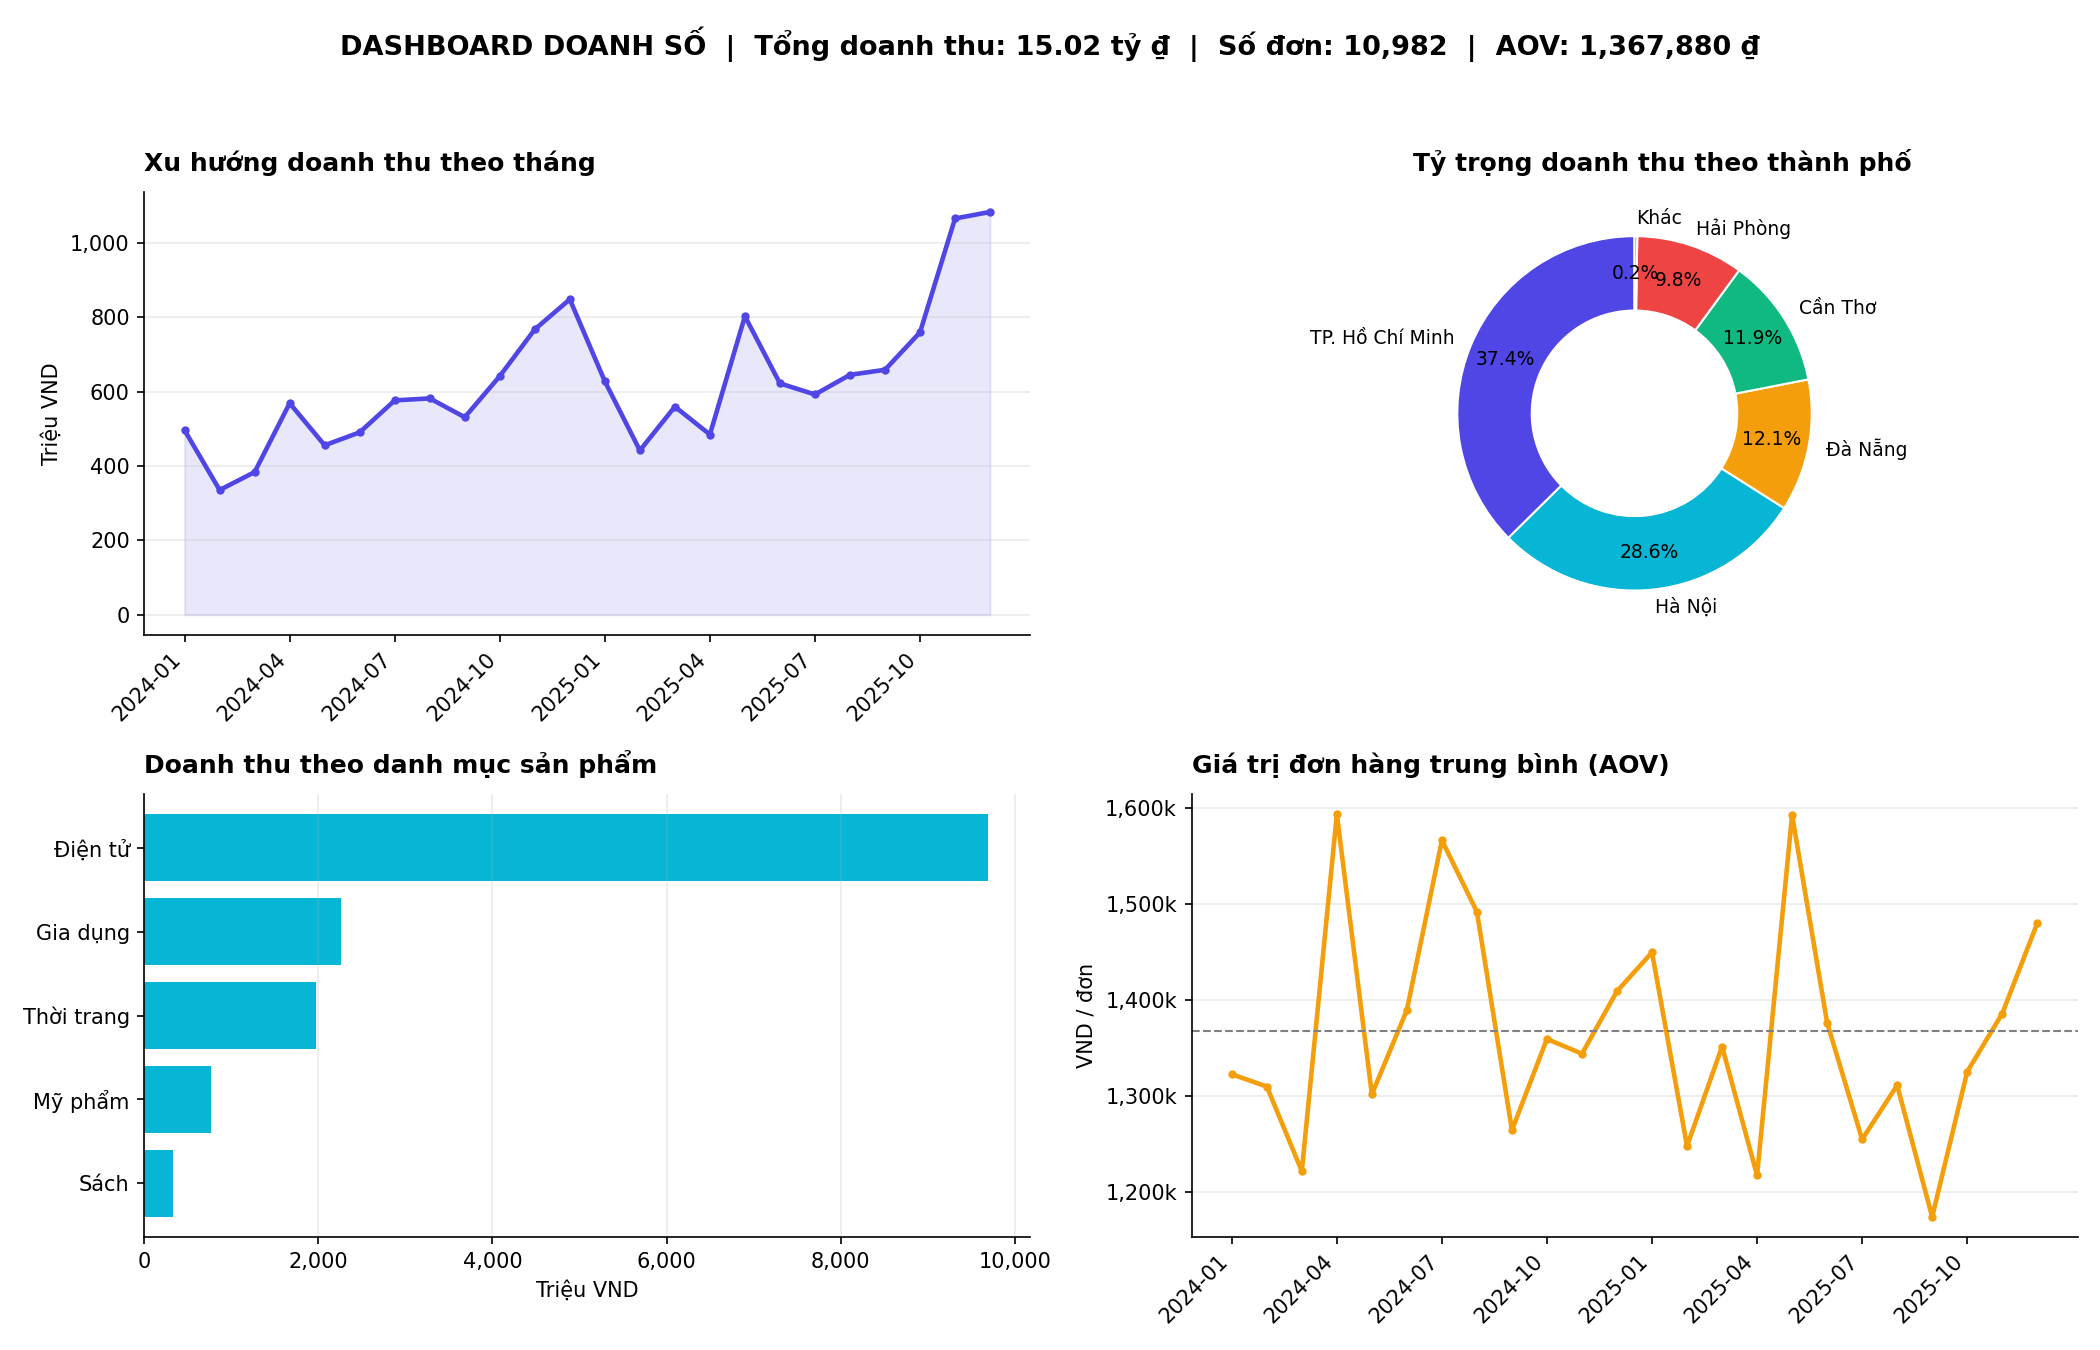
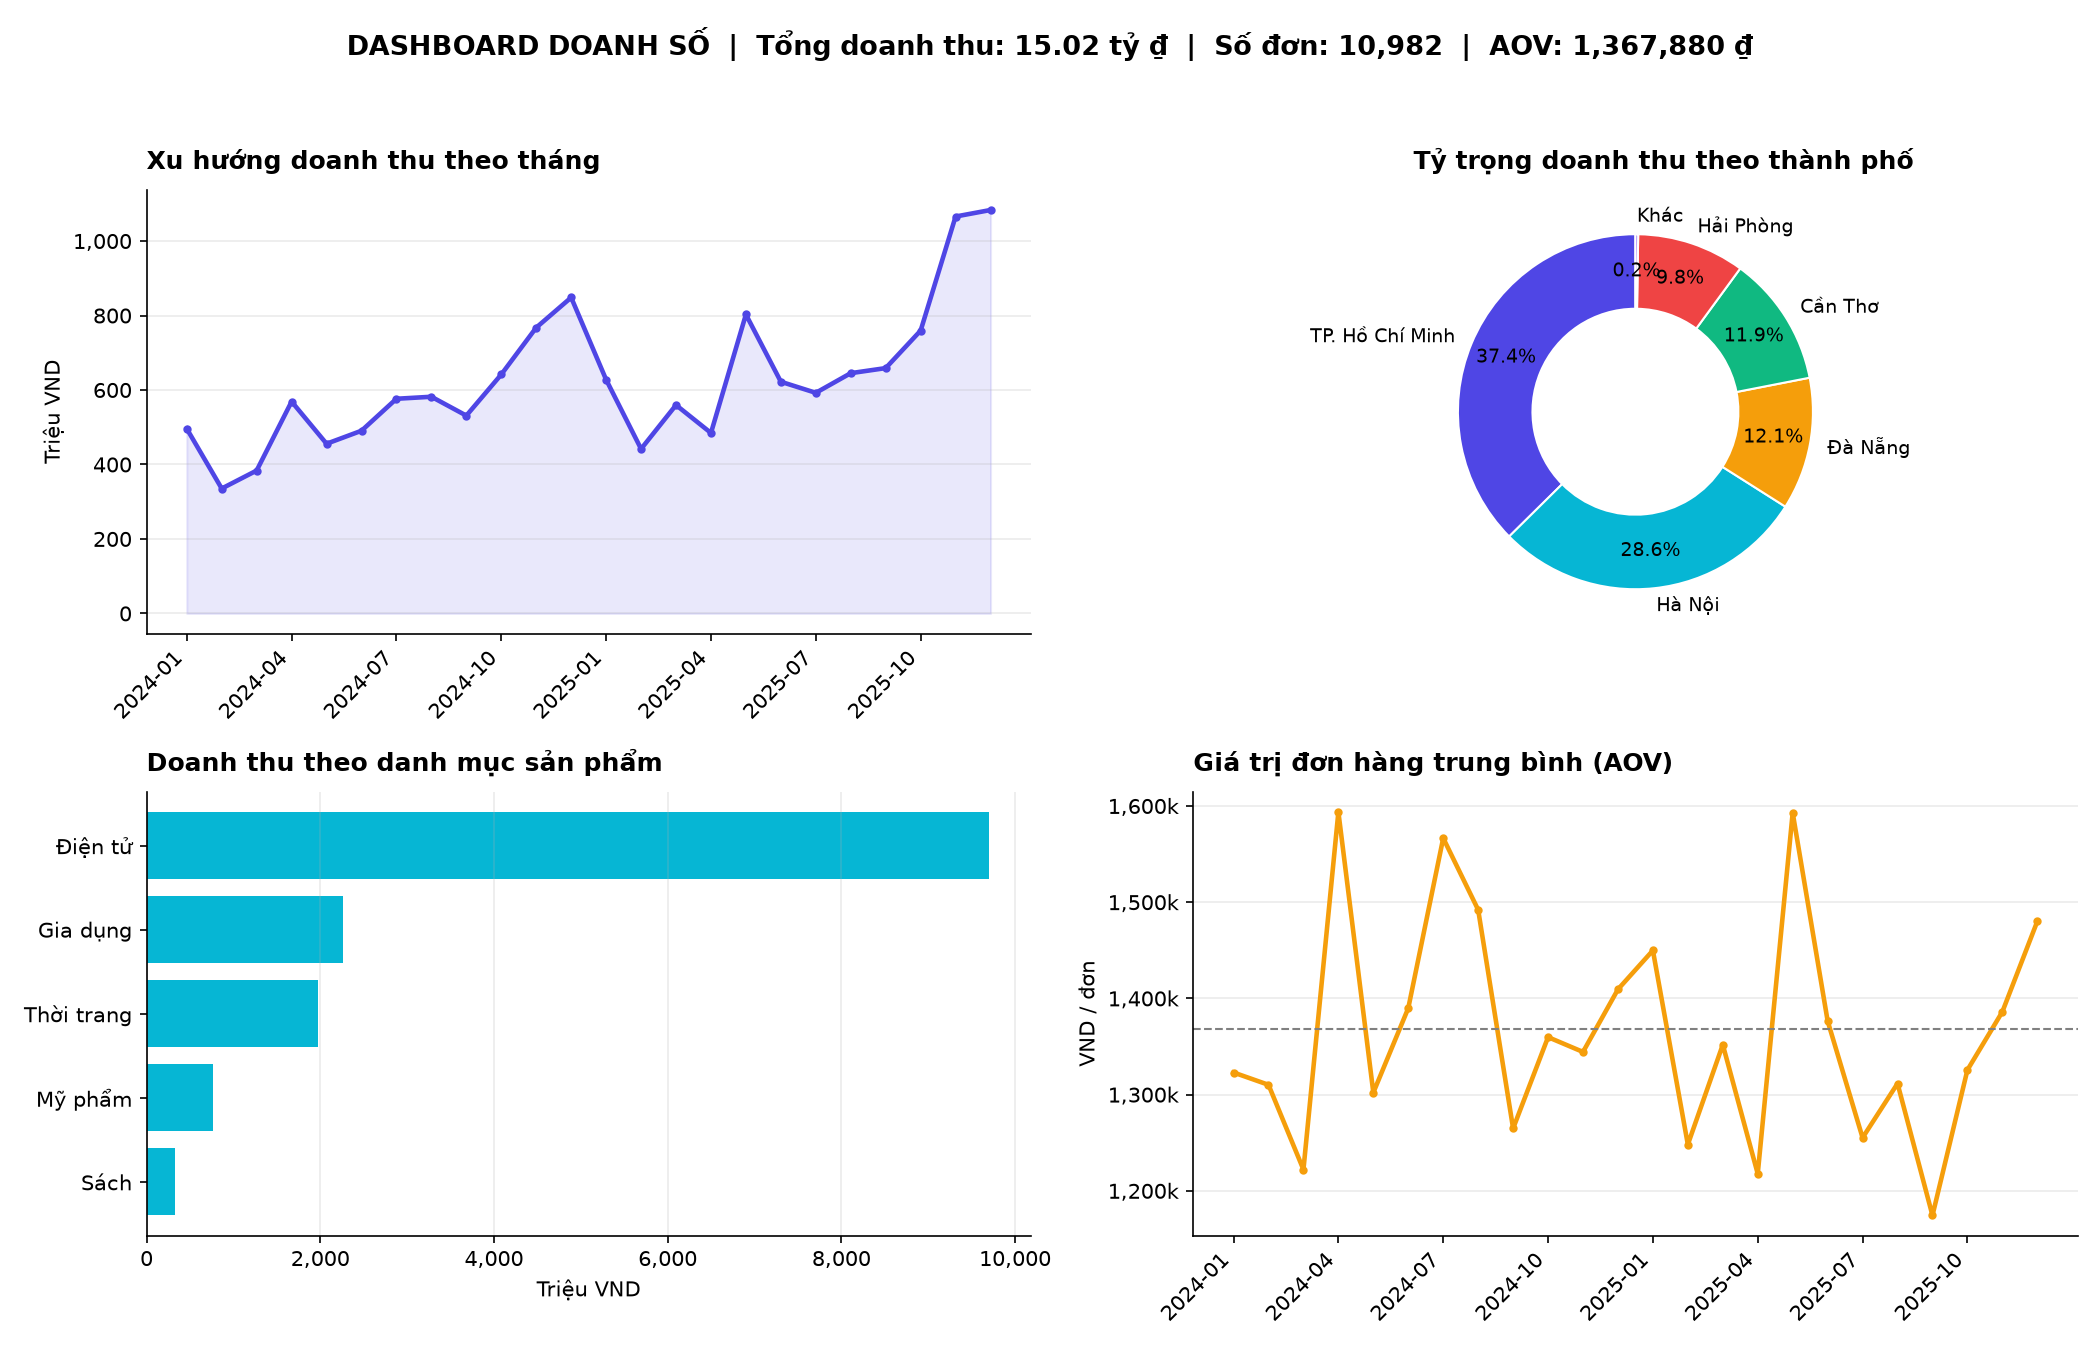
chore: regenerate dashboard and report

diff --git a/output/report.html b/output/report.html
@@ -18,7 +18,7 @@ svg{width:100%;height:auto;display:block}
 </style></head>
 <body><div class="wrap">
 <h1>Báo cáo doanh số thương mại điện tử</h1>
-<p class="sub">Tự động sinh bởi Python · 16/10/2026 05:15 · Đồ họa vector SVG</p>
+<p class="sub">Tự động sinh bởi Python · 18/10/2026 11:19 · Đồ họa vector SVG</p>
 <div class="kpis"><div class="kpi"><span>Tổng doanh thu</span><b>15.02 tỷ ₫</b></div><div class="kpi"><span>Số đơn hoàn tất</span><b>10,982</b></div><div class="kpi"><span>Giá trị đơn trung bình</span><b>1.4 triệu ₫</b></div><div class="kpi"><span>Số khách hàng</span><b>3,748</b></div></div>
 <div class="grid2"><div class="card"><h2>Xu hướng doanh thu theo tháng (triệu ₫)</h2><svg viewBox="0 0 560 300" xmlns="http://www.w3.org/2000/svg" role="img"><line x1="58" x2="544" y1="254.0" y2="254.0" class="grid"/><text x="50" y="258.0" class="tick" text-anchor="end">0tr</text><line x1="58" x2="544" y1="194.5" y2="194.5" class="grid"/><text x="50" y="198.5" class="tick" text-anchor="end">298tr</text><line x1="58" x2="544" y1="135.0" y2="135.0" class="grid"/><text x="50" y="139.0" class="tick" text-anchor="end">596tr</text><line x1="58" x2="544" y1="75.5" y2="75.5" class="grid"/><text x="50" y="79.5" class="tick" text-anchor="end">894tr</text><line x1="58" x2="544" y1="16.0" y2="16.0" class="grid"/><text x="50" y="20.0" class="tick" text-anchor="end">1,192tr</text><polygon points="58,254.0 58.0,154.9 79.1,187.0 100.3,177.4 121.4,140.4 142.5,163.0 163.7,156.0 184.8,138.9 205.9,137.8 227.0,147.9 248.2,125.8 269.3,100.7 290.4,84.6 311.6,128.6 332.7,165.8 353.8,142.2 375.0,157.2 396.1,93.7 417.2,129.7 438.3,135.7 459.5,125.1 480.6,122.4 501.7,102.3 522.9,41.1 544.0,37.6 544.0,254.0" fill="#4F46E5" opacity="0.12"/><polyline points="58.0,154.9 79.1,187.0 100.3,177.4 121.4,140.4 142.5,163.0 163.7,156.0 184.8,138.9 205.9,137.8 227.0,147.9 248.2,125.8 269.3,100.7 290.4,84.6 311.6,128.6 332.7,165.8 353.8,142.2 375.0,157.2 396.1,93.7 417.2,129.7 438.3,135.7 459.5,125.1 480.6,122.4 501.7,102.3 522.9,41.1 544.0,37.6" fill="none" stroke="#4F46E5" stroke-width="2.5" stroke-linejoin="round"/><text x="58.0" y="272" class="tick" text-anchor="middle">2024-01</text><text x="121.4" y="272" class="tick" text-anchor="middle">2024-04</text><text x="184.8" y="272" class="tick" text-anchor="middle">2024-07</text><text x="248.2" y="272" class="tick" text-anchor="middle">2024-10</text><text x="311.6" y="272" class="tick" text-anchor="middle">2025-01</text><text x="375.0" y="272" class="tick" text-anchor="middle">2025-04</text><text x="438.3" y="272" class="tick" text-anchor="middle">2025-07</text><text x="501.7" y="272" class="tick" text-anchor="middle">2025-10</text></svg></div><div class="card"><h2>Tỷ trọng doanh thu theo thành phố</h2><svg viewBox="0 0 560 300" xmlns="http://www.w3.org/2000/svg" role="img"><path d="M150.00,40.00 A110,110 0 0 1 228.24,227.32 L196.94,196.39 A66,66 0 0 0 150.00,84.00 Z" fill="#4F46E5" stroke="var(--card)" stroke-width="2"/><rect x="320" y="59" width="14" height="14" rx="3" fill="#4F46E5"/><text x="342" y="70" class="label">TP. Hồ Chí Minh</text><text x="548" y="70" class="label" text-anchor="end" font-weight="600">37.4%</text><path d="M228.24,227.32 A110,110 0 0 1 57.07,208.85 L94.24,185.31 A66,66 0 0 0 196.94,196.39 Z" fill="#06B6D4" stroke="var(--card)" stroke-width="2"/><rect x="320" y="91" width="14" height="14" rx="3" fill="#06B6D4"/><text x="342" y="102" class="label">Hà Nội</text><text x="548" y="102" class="label" text-anchor="end" font-weight="600">28.6%</text><path d="M57.07,208.85 A110,110 0 0 1 42.04,128.92 L85.22,137.35 A66,66 0 0 0 94.24,185.31 Z" fill="#F59E0B" stroke="var(--card)" stroke-width="2"/><rect x="320" y="123" width="14" height="14" rx="3" fill="#F59E0B"/><text x="342" y="134" class="label">Đà Nẵng</text><text x="548" y="134" class="label" text-anchor="end" font-weight="600">12.1%</text><path d="M42.04,128.92 A110,110 0 0 1 85.05,61.22 L111.03,96.73 A66,66 0 0 0 85.22,137.35 Z" fill="#10B981" stroke="var(--card)" stroke-width="2"/><rect x="320" y="155" width="14" height="14" rx="3" fill="#10B981"/><text x="342" y="166" class="label">Cần Thơ</text><text x="548" y="166" class="label" text-anchor="end" font-weight="600">11.9%</text><path d="M85.05,61.22 A110,110 0 0 1 148.28,40.01 L148.97,84.01 A66,66 0 0 0 111.03,96.73 Z" fill="#EF4444" stroke="var(--card)" stroke-width="2"/><rect x="320" y="187" width="14" height="14" rx="3" fill="#EF4444"/><text x="342" y="198" class="label">Hải Phòng</text><text x="548" y="198" class="label" text-anchor="end" font-weight="600">9.8%</text><path d="M148.28,40.01 A110,110 0 0 1 150.00,40.00 L150.00,84.00 A66,66 0 0 0 148.97,84.01 Z" fill="#8B5CF6" stroke="var(--card)" stroke-width="2"/><rect x="320" y="219" width="14" height="14" rx="3" fill="#8B5CF6"/><text x="342" y="230" class="label">Khác</text><text x="548" y="230" class="label" text-anchor="end" font-weight="600">0.2%</text><text x="150" y="155" class="label" text-anchor="middle" font-weight="600">Theo thành phố</text></svg></div><div class="card"><h2>Doanh thu theo danh mục sản phẩm</h2><svg viewBox="0 0 560 300" xmlns="http://www.w3.org/2000/svg" role="img"><text x="90" y="43.6" class="label" text-anchor="end">Điện tử</text><rect x="100" y="21.9" width="370.0" height="35.3" rx="4" fill="#06B6D4"/><text x="478.0" y="43.6" class="tick">9.69 tỷ ₫</text><text x="90" y="98.8" class="label" text-anchor="end">Gia dụng</text><rect x="100" y="77.1" width="86.2" height="35.3" rx="4" fill="#06B6D4"/><text x="194.2" y="98.8" class="tick">2.26 tỷ ₫</text><text x="90" y="154.0" class="label" text-anchor="end">Thời trang</text><rect x="100" y="132.3" width="75.1" height="35.3" rx="4" fill="#06B6D4"/><text x="183.1" y="154.0" class="tick">1.97 tỷ ₫</text><text x="90" y="209.2" class="label" text-anchor="end">Mỹ phẩm</text><rect x="100" y="187.5" width="29.3" height="35.3" rx="4" fill="#06B6D4"/><text x="137.3" y="209.2" class="tick">767.1 triệu ₫</text><text x="90" y="264.4" class="label" text-anchor="end">Sách</text><rect x="100" y="242.7" width="12.7" height="35.3" rx="4" fill="#06B6D4"/><text x="120.7" y="264.4" class="tick">332.4 triệu ₫</text></svg></div><div class="card"><h2>Giá trị đơn hàng trung bình (AOV)</h2><svg viewBox="0 0 560 300" xmlns="http://www.w3.org/2000/svg" role="img"><line x1="58" x2="544" y1="254.0" y2="254.0" class="grid"/><text x="50" y="258.0" class="tick" text-anchor="end">0k</text><line x1="58" x2="544" y1="194.5" y2="194.5" class="grid"/><text x="50" y="198.5" class="tick" text-anchor="end">438k</text><line x1="58" x2="544" y1="135.0" y2="135.0" class="grid"/><text x="50" y="139.0" class="tick" text-anchor="end">877k</text><line x1="58" x2="544" y1="75.5" y2="75.5" class="grid"/><text x="50" y="79.5" class="tick" text-anchor="end">1,315k</text><line x1="58" x2="544" y1="16.0" y2="16.0" class="grid"/><text x="50" y="20.0" class="tick" text-anchor="end">1,753k</text><polygon points="58,254.0 58.0,74.4 79.1,76.1 100.3,88.1 121.4,37.6 142.5,77.2 163.7,65.3 184.8,41.3 205.9,51.4 227.0,82.3 248.2,69.4 269.3,71.5 290.4,62.7 311.6,57.2 332.7,84.6 353.8,70.5 375.0,88.7 396.1,37.7 417.2,67.1 438.3,83.6 459.5,76.0 480.6,94.6 501.7,74.0 522.9,65.8 544.0,53.1 544.0,254.0" fill="#F59E0B" opacity="0.12"/><polyline points="58.0,74.4 79.1,76.1 100.3,88.1 121.4,37.6 142.5,77.2 163.7,65.3 184.8,41.3 205.9,51.4 227.0,82.3 248.2,69.4 269.3,71.5 290.4,62.7 311.6,57.2 332.7,84.6 353.8,70.5 375.0,88.7 396.1,37.7 417.2,67.1 438.3,83.6 459.5,76.0 480.6,94.6 501.7,74.0 522.9,65.8 544.0,53.1" fill="none" stroke="#F59E0B" stroke-width="2.5" stroke-linejoin="round"/><text x="58.0" y="272" class="tick" text-anchor="middle">2024-01</text><text x="121.4" y="272" class="tick" text-anchor="middle">2024-04</text><text x="184.8" y="272" class="tick" text-anchor="middle">2024-07</text><text x="248.2" y="272" class="tick" text-anchor="middle">2024-10</text><text x="311.6" y="272" class="tick" text-anchor="middle">2025-01</text><text x="375.0" y="272" class="tick" text-anchor="middle">2025-04</text><text x="438.3" y="272" class="tick" text-anchor="middle">2025-07</text><text x="501.7" y="272" class="tick" text-anchor="middle">2025-10</text></svg></div></div>
 </div></body></html>
